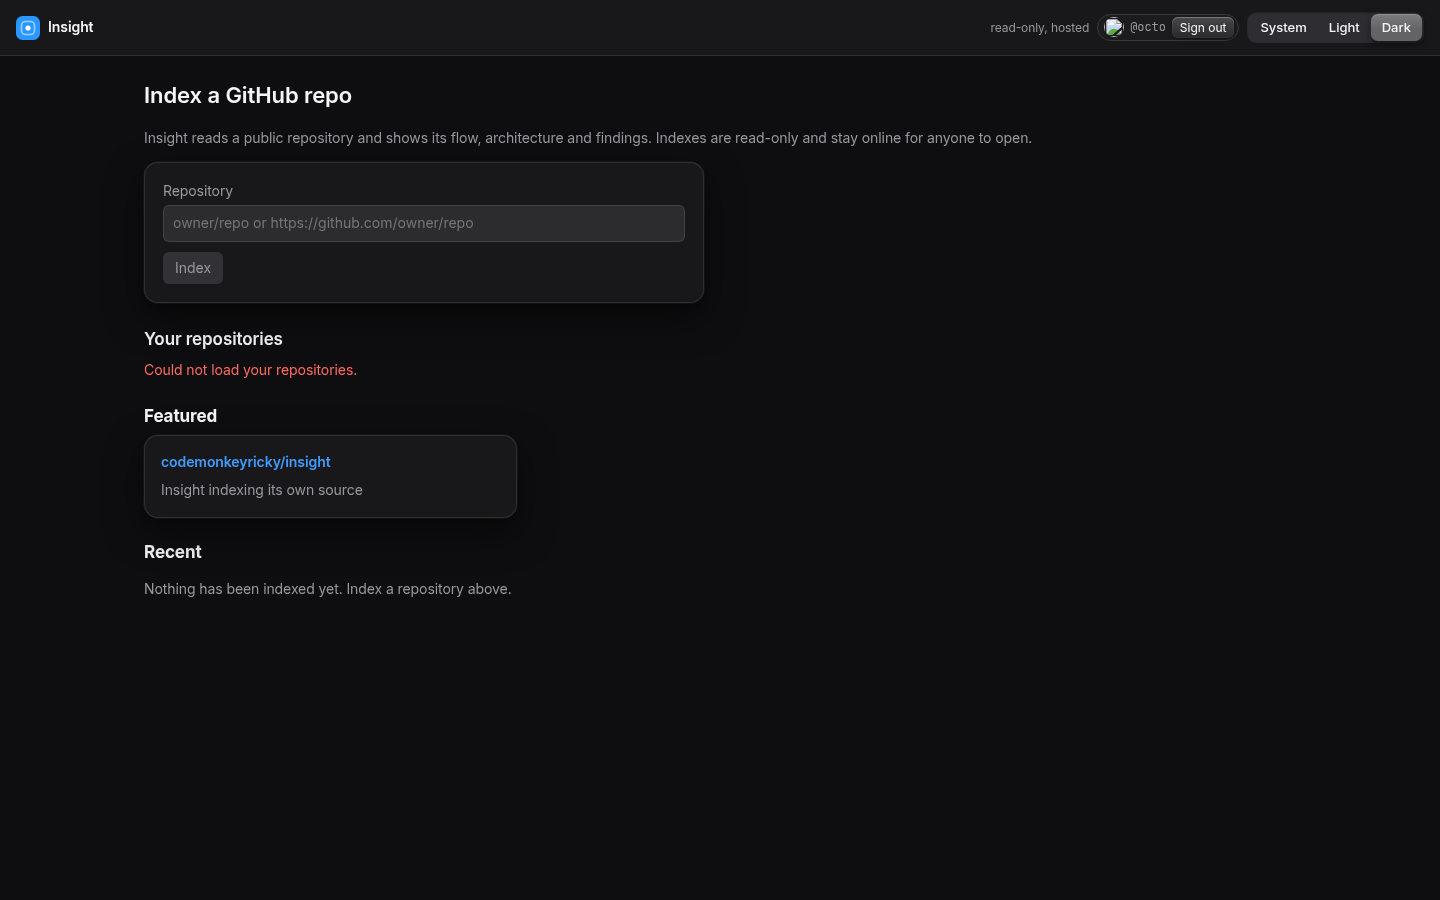
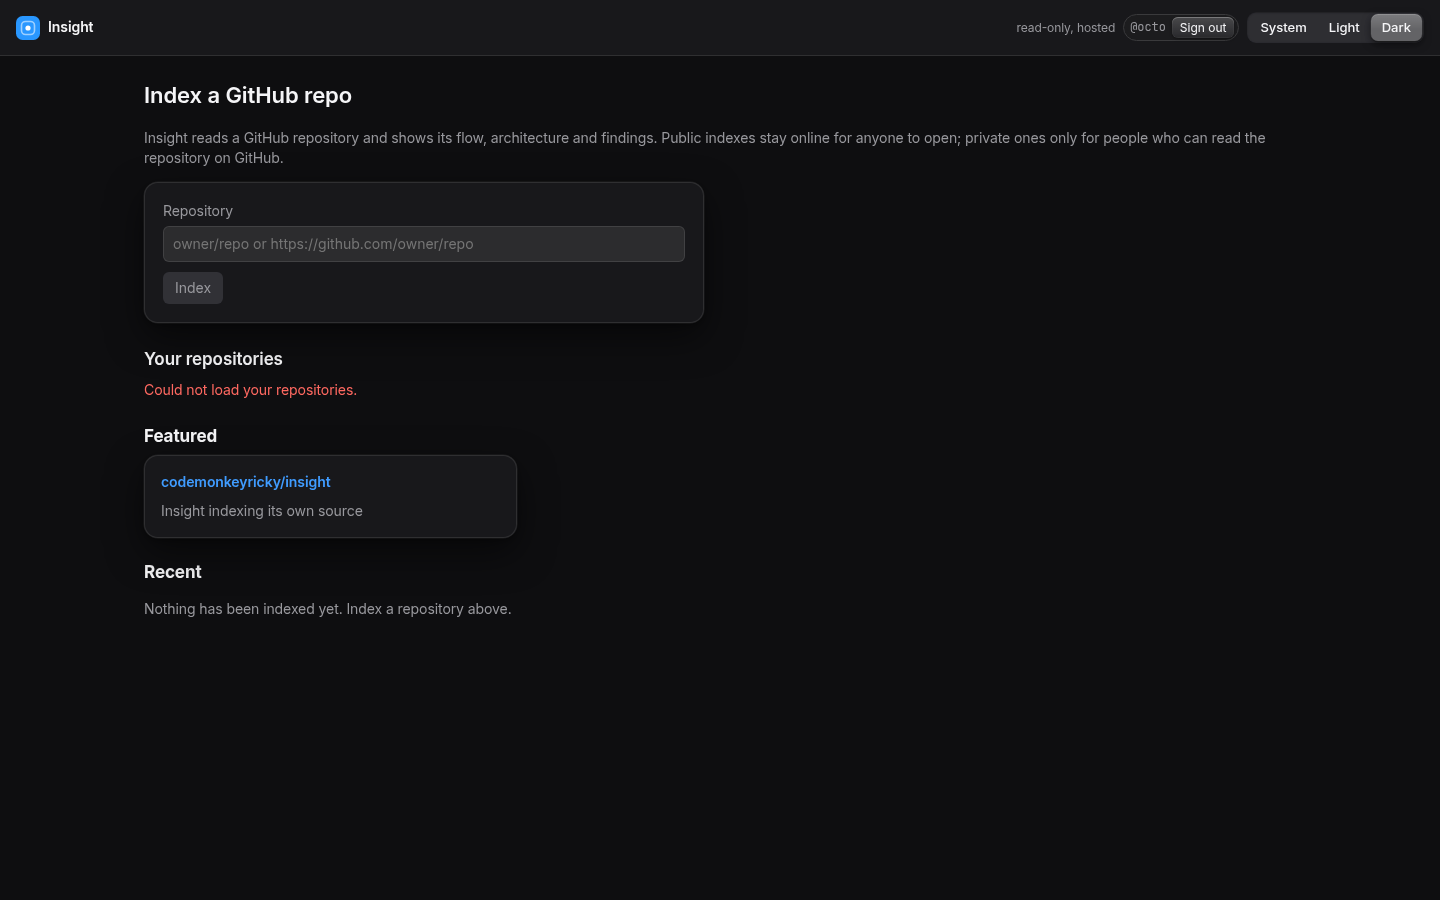
Fit the hosted header at phone width; name private indexes in the home intro
At 390 px the header overflowed (520 px) and pushed the theme switch off-screen. Below 600 px the
"read-only, hosted" label and the signed-in login hide, and the sign-in chip shows "Sign in" (the full
"Sign in with GitHub" stays as its name and title). Desktop is unchanged.

When sign-in is enabled the hosted home intro describes private indexes; the disabled copy is unchanged.

Claude-Session: https://claude.ai/code/session_011RUAPQFdt6vViPBZJMwcEy

diff --git a/apps/web/test/hostedAuth.test.tsx b/apps/web/test/hostedAuth.test.tsx
@@ -1,7 +1,7 @@
 import { describe, expect, it } from "vitest";
 import { renderToStaticMarkup } from "react-dom/server";
 import { AuthChip, AuthChipView } from "../src/components/HostedAuth";
-import { AuthErrorLine, YourRepos } from "../src/pages/HostedHome";
+import { AuthErrorLine, YourRepos, homeIntroText } from "../src/pages/HostedHome";
 import { authErrorOf, indexErrorText } from "../src/hostedRepo";
 
 // The components render to static markup: effects do not run, so the chip shows nothing until the state is known.
@@ -26,6 +26,37 @@ describe("header sign-in chip", () => {
 
   it("renders nothing before the sign-in state is known", () => {
     expect(renderToStaticMarkup(<AuthChip />)).toBe("");
+  });
+});
+
+describe("hosted home intro", () => {
+  it("keeps the public-only copy when sign-in is off", () => {
+    expect(homeIntroText(false)).toBe(
+      "Insight reads a public repository and shows its flow, architecture and findings. Indexes are read-only and stay online for anyone to open.",
+    );
+  });
+
+  it("describes private indexes when sign-in is on", () => {
+    expect(homeIntroText(true)).toBe(
+      "Insight reads a GitHub repository and shows its flow, architecture and findings. Public indexes stay online for anyone to open; private ones only for people who can read the repository on GitHub.",
+    );
+  });
+});
+
+describe("header sign-in chip at a phone width", () => {
+  it("carries the full sign-in text as its name and a short visible label", () => {
+    const html = renderToStaticMarkup(<AuthChipView me={{ enabled: true, signedIn: false }} hash="#/" onSignOut={() => undefined} />);
+    expect(html).toContain('aria-label="Sign in with GitHub"');
+    expect(html).toContain('title="Sign in with GitHub"');
+    expect(html).toContain('<span class="auth-short">Sign in</span>');
+  });
+
+  it("keeps the login in the title of the signed-in chip", () => {
+    const html = renderToStaticMarkup(
+      <AuthChipView me={{ enabled: true, signedIn: true, login: "octo", avatarUrl: "https://avatars.test/2" }} hash="#/" onSignOut={() => undefined} />,
+    );
+    expect(html).toContain('title="@octo"');
+    expect(html).toContain("Sign out");
   });
 });
 

diff --git a/apps/web/src/pages/HostedHome.tsx b/apps/web/src/pages/HostedHome.tsx
@@ -17,6 +17,13 @@ const FEATURED: { owner: string; repo: string; note: string }[] = [{ owner: "cod
 
 const INSTALL_TEXT = "Install the Insight app on a repository to index it";
 
+/** The hosted home's intro: the public-only copy when sign-in is off, the private-aware copy when it is on. */
+export function homeIntroText(signInEnabled: boolean): string {
+  return signInEnabled
+    ? "Insight reads a GitHub repository and shows its flow, architecture and findings. Public indexes stay online for anyone to open; private ones only for people who can read the repository on GitHub."
+    : "Insight reads a public repository and shows its flow, architecture and findings. Indexes are read-only and stay online for anyone to open.";
+}
+
 /** A sign-in that failed: the callback's code, with a button that hides the line. */
 export function AuthErrorLine({ code, onDismiss }: { code: string; onDismiss: () => void }) {
   return (
@@ -137,7 +144,7 @@ export function HostedHome() {
       <h1>Index a GitHub repo</h1>
       {authError && <AuthErrorLine code={authError} onDismiss={dismissAuthError} />}
       <p className="muted">
-        Insight reads a public repository and shows its flow, architecture and findings. Indexes are read-only and stay online for anyone to open.
+        {homeIntroText(auth?.enabled === true)}
       </p>
 
       <form className="panel add add-panel" onSubmit={submit} noValidate>

diff --git a/apps/web/src/styles.css b/apps/web/src/styles.css
@@ -1042,6 +1042,14 @@ a.auth-chip { text-decoration: none; }
 .auth-avatar { border-radius: 50%; flex: none; }
 .auth-login { font-family: var(--font-code); font-size: var(--t-xs); color: var(--muted); overflow: hidden; text-overflow: ellipsis; max-width: 12rem; }
 .auth-signout, .auth-dismiss { padding: 2px 8px; font-size: var(--t-xs); }
+.auth-short { display: none; }
+/* On a phone the header keeps the logo, the short sign-in control and the theme switch: the read-only label, the signed-in login and the full sign-in text go. */
+@media (max-width: 600px) {
+  .sh-hosted-note { display: none; }
+  .auth-full { display: none; }
+  .auth-short { display: inline; }
+  .auth-chip.signed-in .auth-login { display: none; }
+}
 .home .auth-error { margin: 0 0 16px; display: flex; gap: 12px; align-items: center; flex-wrap: wrap; }
 .your-repos { max-width: 560px; margin: 0 0 24px; }
 .your-repos-head { display: flex; flex-wrap: wrap; align-items: baseline; justify-content: space-between; gap: 12px; }

diff --git a/apps/web/src/components/HostedAuth.tsx b/apps/web/src/components/HostedAuth.tsx
@@ -5,13 +5,14 @@ import { authMe, signInUrl, signOut, type AuthState } from "../hostedApi";
 export function AuthChipView({ me, hash, onSignOut }: { me: AuthState; hash: string; onSignOut: () => void }) {
   if (!me.signedIn) {
     return (
-      <a className="chip auth-chip" href={signInUrl(hash)}>
-        Sign in with GitHub
+      <a className="chip auth-chip" href={signInUrl(hash)} aria-label="Sign in with GitHub" title="Sign in with GitHub">
+        <span className="auth-full">Sign in with GitHub</span>
+        <span className="auth-short">Sign in</span>
       </a>
     );
   }
   return (
-    <span className="auth-chip signed-in">
+    <span className="auth-chip signed-in" title={`@${me.login ?? "github"}`}>
       {me.avatarUrl && <img className="auth-avatar" src={me.avatarUrl} alt="" width={20} height={20} referrerPolicy="no-referrer" />}
       <span className="auth-login">@{me.login ?? "github"}</span>
       <button type="button" className="auth-signout" onClick={onSignOut}>

diff --git a/apps/web/src/App.tsx b/apps/web/src/App.tsx
@@ -43,7 +43,7 @@ export function App() {
           <BrandMark />
           <div className="sh-spacer" />
           <div className="sh-tools">
-            <span className="sh-server">{IS_HOSTED ? "read-only, hosted" : IS_DEMO ? "read-only demo" : server}</span>
+            <span className={IS_HOSTED ? "sh-server sh-hosted-note" : "sh-server"}>{IS_HOSTED ? "read-only, hosted" : IS_DEMO ? "read-only demo" : server}</span>
             {IS_HOSTED && <AuthChip />}
             {IS_DEMO && meta && (
               <span className="sh-server mono" title={`captured ${meta.capturedAt}`}>
